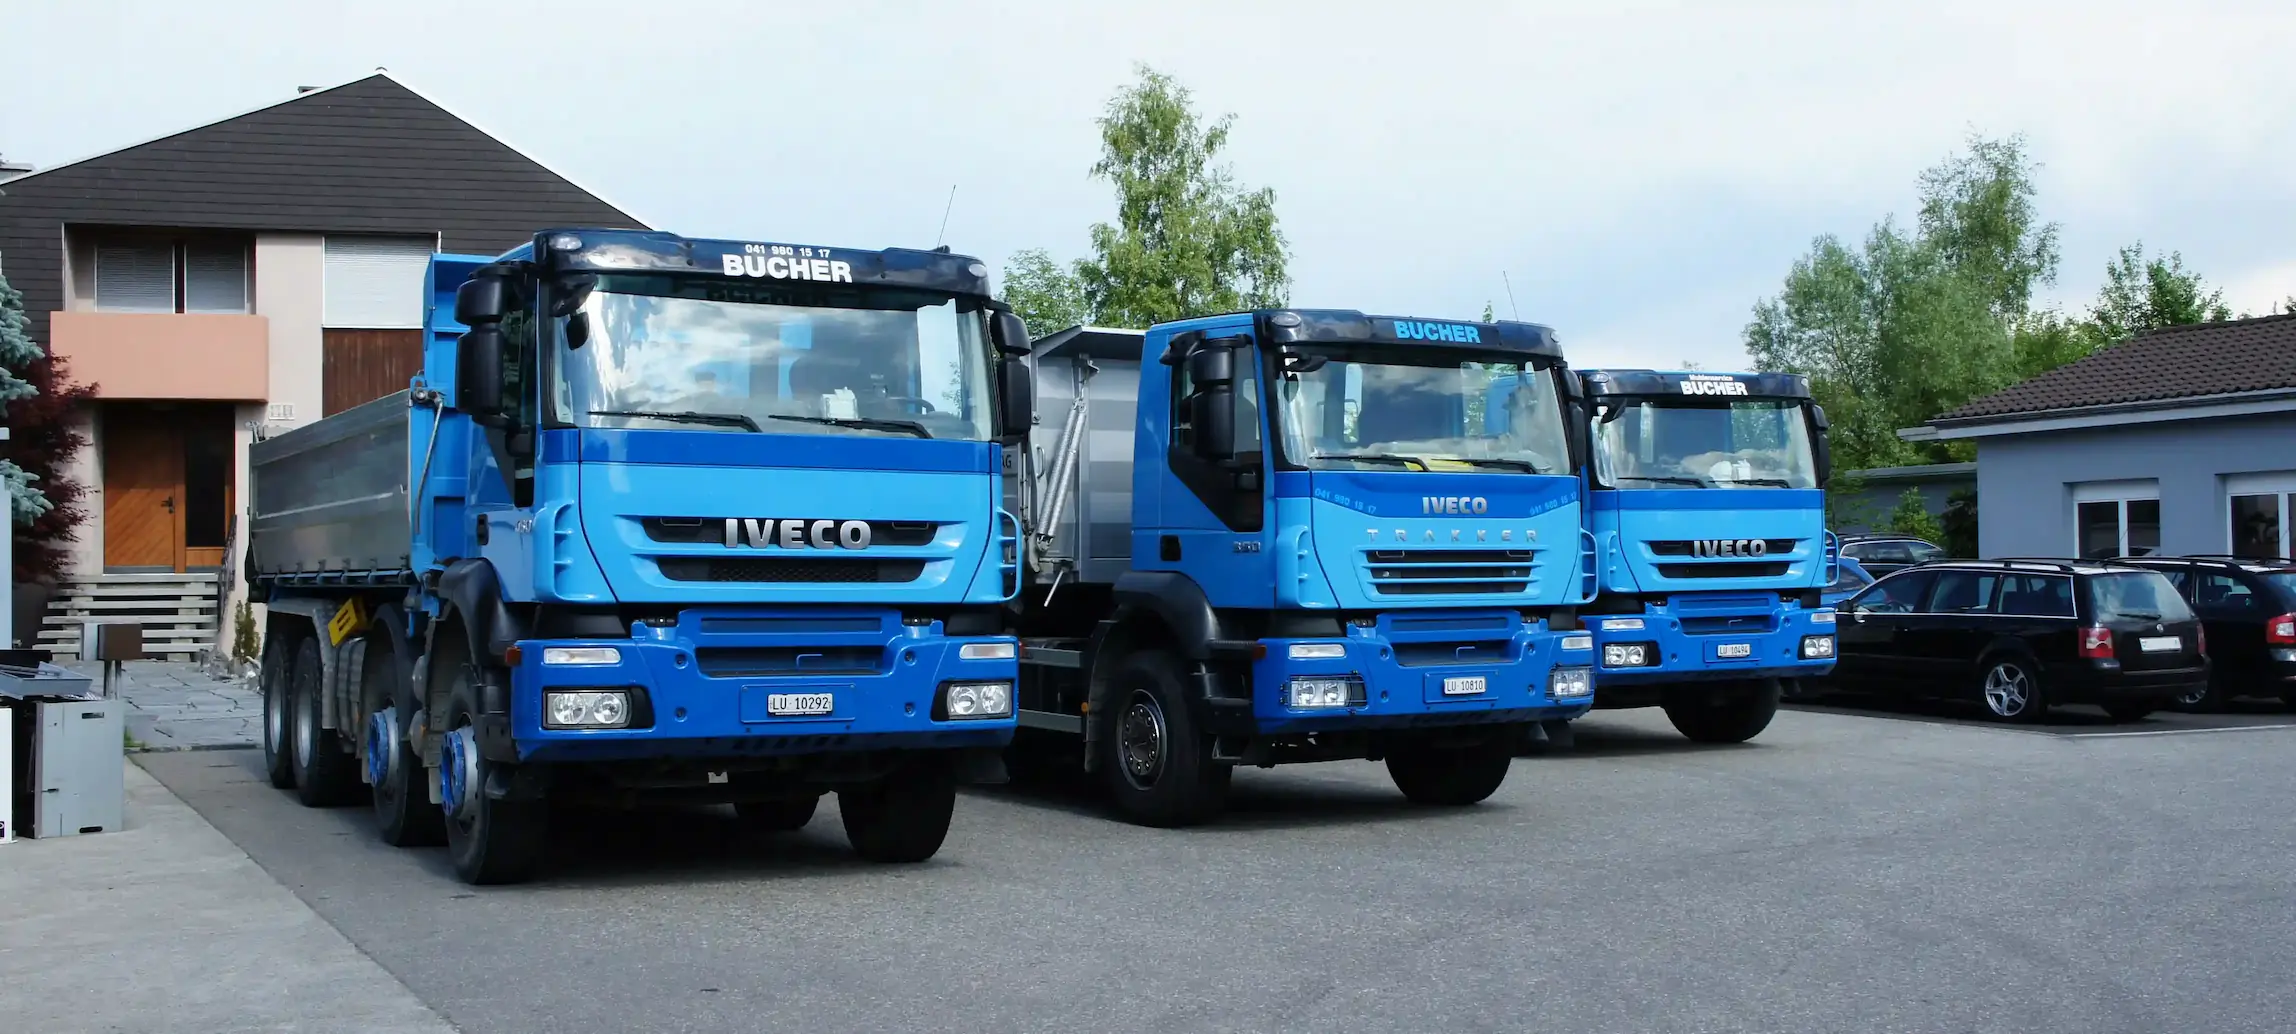
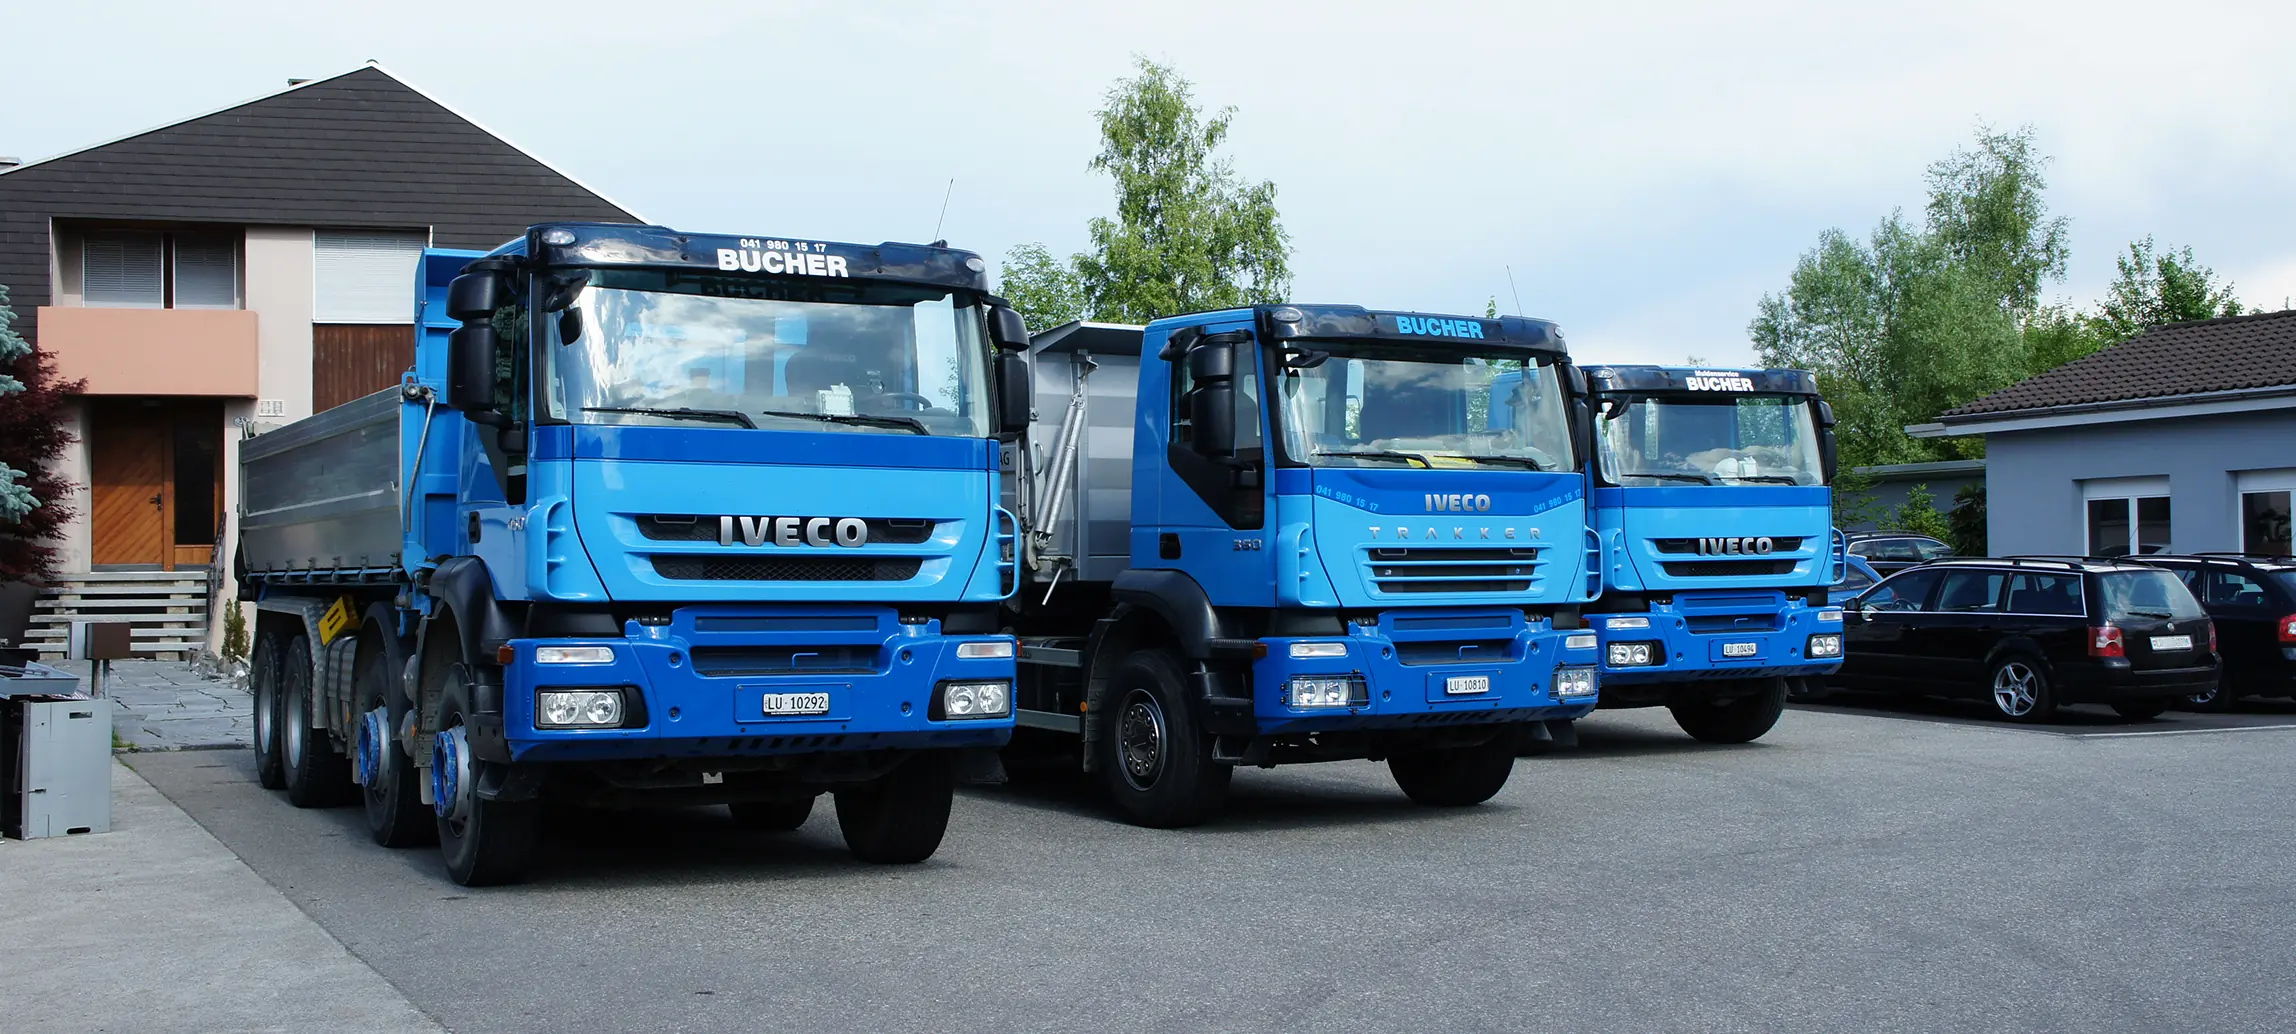
Bilder ausgetauscht

diff --git a/styles.css b/styles.css
@@ -111,7 +111,7 @@ nav ul li:hover .dropdown-nav {
 #titelbild {
     width: 100%;
     height: 60svh;
-    background-image: url(media/Lastwagen.webp);
+    background-image: url(media/lastwagen.webp);
     background-size: cover;
     background-position-y: 40%;
     background-position-x: 60%;
